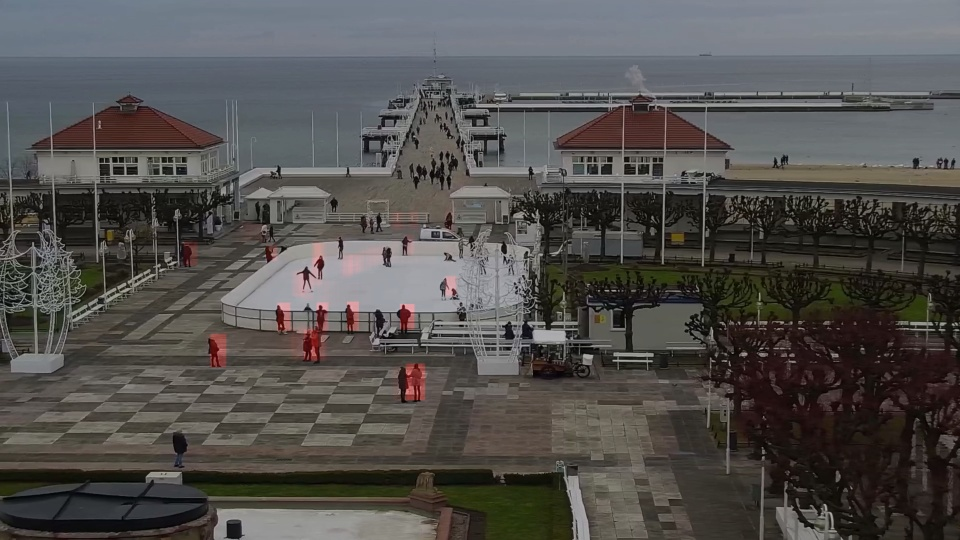
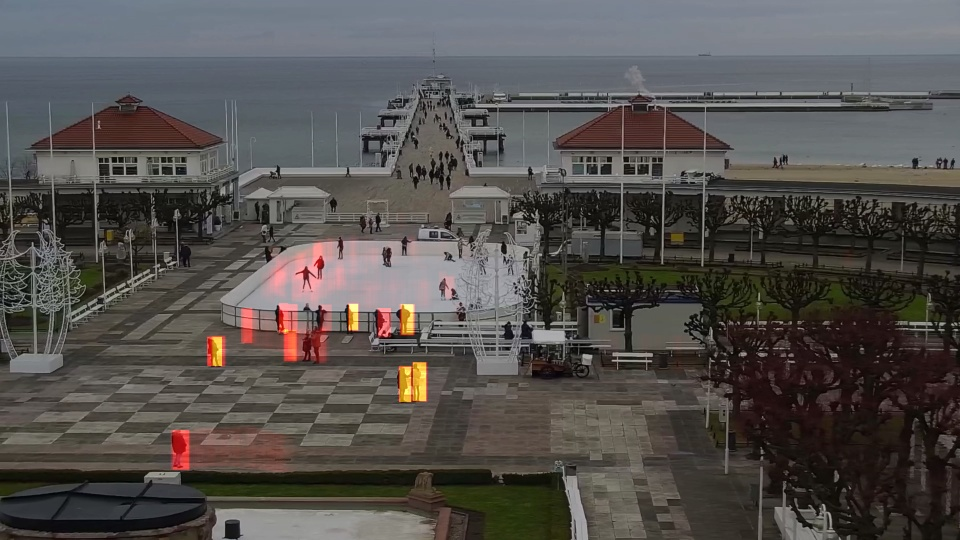
add yolov9 for human detection

diff --git a/util/yolov9_utils.py b/util/yolov9_utils.py
@@ -1,46 +1,46 @@
-import torch
+import yolov9
 import cv2
 import numpy as np
-import yolov9
-from yolov9.models.common import DetectMultiBackend
-from yolov9.utils.general import non_max_suppression, scale_boxes
-from yolov9.utils.torch_utils import select_device, smart_inference_mode
-from yolov9.utils.augmentations import letterbox
-import PIL.Image
 
-@smart_inference_mode()
-def detect_humans_yolov9(image_path, weights, imgsz=640, conf_thres=0.1, iou_thres=0.45, device='0', data='data/coco.yaml'):
-    # Initialize
-    device = select_device(device)
-    model = DetectMultiBackend(weights, device=device, fp16=False, data=data)
-    stride, names, pt = model.stride, model.names, model.pt
+def initialize_yolov9(weights_path, iou_conf, iou_thresh, class_id):
+    # Check if GPU is available
+    if cv2.cuda.getCudaEnabledDeviceCount() > 0:
+        model = yolov9.load(weights_path, device="cuda")
 
-    # Load image
-    image = PIL.Image.open(image_path)
-    img0 = np.array(image)
-    assert img0 is not None, f'Image Not Found {image_path}'
-    img = letterbox(img0, imgsz, stride=stride, auto=True)[0]
-    img = img[:, :, ::-1].transpose(2, 0, 1)
-    img = np.ascontiguousarray(img)
-    img = torch.from_numpy(img).to(device).float()
-    img /= 255.0
-    if img.ndimension() == 3:
-        img = img.unsqueeze(0)
+        # Set model parameters
+        model.conf = iou_conf  # NMS confidence threshold
+        model.iou = iou_thresh  # NMS IoU threshold
+        model.classes = [class_id]  # Class id for person
 
-    # Inference
-    pred = model(img, augment=False, visualize=False)
+        return model
 
-    # Apply NMS
-    pred = non_max_suppression(pred[0][0], conf_thres, iou_thres, classes=None, max_det=1000)
+    else:
+        print("GPU is not available. Using CPU for YOLOv9 inference.")
+        model = yolov9.load(weights_path, device="cpu")
 
-    # Process detections
-    detected_boxes = []
-    for i, det in enumerate(pred):
-        if len(det):
-            det[:, :4] = scale_boxes(img.shape[2:], det[:, :4], img0.shape).round()
-            for *xyxy, conf, cls in reversed(det):
-                detected_boxes.append(xyxy)
+        # Set model parameters
+        model.conf = iou_conf  # NMS confidence threshold
+        model.iou = iou_thresh  # NMS IoU threshold
+        model.classes = [class_id]  # Class id for person
 
-    return detected_boxes
+        return model
 
-# You can add additional functions or modify as needed in yolov9_utils.py
+def detect_humans_yolov9(frame, model, confidence_threshold=0.5, display_boxes=False):
+    # perform inference on frame
+    results = model(frame)
+
+    # parse results
+    predictions = results.pred[0]
+    boxes = predictions[:, :4]  # x1, y1, x2, y2s
+    confidence = predictions[:, 4]  # confidence scores
+
+    # filter predictions based on confidence threshold
+    filtered_boxes = [np.array(box[:4], dtype=int) for box, conf in zip(boxes, confidence) if conf > confidence_threshold]
+
+    if display_boxes:
+        # draw bounding boxes on frame
+        for box in filtered_boxes:
+            x1, y1, x2, y2 = np.array(box[:4], dtype=int)
+            cv2.rectangle(frame, (x1, y1), (x2, y2), (255, 255, 255), 1, cv2.LINE_AA)
+
+    return filtered_boxes

diff --git a/util/main_utils.py b/util/main_utils.py
@@ -3,6 +3,7 @@ import cv2
 import numpy as np
 import time
 from util.yolo_utils import detect_humans
+from util.yolov9_utils import detect_humans_yolov9
 from util.image_utils import resize_frame, apply_background_subtraction, process_accumulated_heatmap, display_fps_text
 
 
@@ -71,7 +72,73 @@ def process_frames(cap, fgbg, yolo_net, yolo_classes, yolo_layer_names, display_
     progress_bar.close()
     return first_frame, accum_image
 
+def process_frames_yolov9(cap, fgbg, yolo_model, display_fps=False, resize_factor=0.5, skip_frames=2, yolo_skip_frames=3):
+    first_iteration_indicator = True
+    first_frame = None
+    accum_image = None
+    frame_count = 0
+    yolo_frame_count = 0
+
+    total_frames = int(cap.get(cv2.CAP_PROP_FRAME_COUNT))
+    progress_bar = tqdm(total=total_frames, desc='Processing Frames', unit='frames')
+
+    start_time = time.time()
+
+    while True:
+        ret, frame = cap.read()
+        progress_bar.update(1)
+
+        if not ret:
+            print("End of video.")
+            break
+
+        frame_count += 1
+        yolo_frame_count += 1
+
+        # Optimization 3: Skip Frames
+        if frame_count % skip_frames != 0:
+            continue
+
+        frame = resize_frame(frame, resize_factor)
+
+        if first_iteration_indicator:
+            first_frame = frame.copy()
+            gray = cv2.cvtColor(frame, cv2.COLOR_BGR2GRAY)
+            height, width = gray.shape[:2]
+            accum_image = np.zeros((height, width), dtype=np.uint8)
+            first_iteration_indicator = False
+        else:
+            # Optimization 4: Optimized YOLOv9 Detection
+            if yolo_frame_count % yolo_skip_frames == 0:
+                human_boxes = detect_humans_yolov9(frame, yolo_model, confidence_threshold=0.25, display_boxes=True)
+                yolo_frame_count = 0
+            else:
+                human_boxes = []  # Use the previous boxes
+
+            for box in human_boxes:
+                x, y, w, h = box
+                roi_frame = frame[y:h, x:w]
+
+                # Background subtraction and motion accumulation within the bounding box
+                thresholded = apply_background_subtraction(fgbg, roi_frame)
+                accum_image[y:h, x:w] = cv2.add(accum_image[y:h, x:w], thresholded)
+
+            # Display live heatmap
+            live_heatmap = process_accumulated_heatmap(frame, accum_image)
+
+            if display_fps:
+                live_heatmap = display_fps_text(live_heatmap, frame_count, start_time)
+
+            cv2.imshow('Live Heatmap', live_heatmap)
+
+        if cv2.waitKey(1) & 0xFF == ord('q'):
+            break
+
+    progress_bar.close()
+    return first_frame, accum_image
+
 def generate_overlay(first_frame, accum_image):
     color_image = cv2.applyColorMap(accum_image, cv2.COLORMAP_HOT)
     result_overlay = cv2.addWeighted(first_frame, 0.7, color_image, 0.7, 0)
     return result_overlay
+

diff --git a/main.py b/main.py
@@ -1,47 +1,33 @@
-import yolov9
+import os
 import cv2
-import numpy as np
+from util import image_utils, main_utils, yolov9_utils
 
-# load pretrained or custom model
-model = yolov9.load(
-    "./yolo-coco/yolov9/gelan-c.pt",
-    device="cpu",
-)
+WEIGHTS_PATH = r"./yolo-coco/yolov9/gelan-c.pt"
+VIDEO_PATH = r"./data/input.mp4"
 
-# set model parameters
-model.conf = 0.25  # NMS confidence threshold
-model.iou = 0.45  # NMS IoU threshold
-model.classes = 0  # 0: class id for person
+def main():
+    video_path = VIDEO_PATH
+    cap = image_utils.initialize_video_capture(video_path)
+    fgbg = cv2.createBackgroundSubtractorMOG2()
 
-video_path = "./data/inp.mp4"
-cap = cv2.VideoCapture(video_path)
-if not cap.isOpened():
-    print("Error opening video file")
-    exit()
+    # Initialize YOLO V9 for human detection
+    model = yolov9_utils.initialize_yolov9(WEIGHTS_PATH, iou_conf=0.25, iou_thresh=0.45, class_id=0)
 
-while cap.isOpened():
-    
-    ret, frame = cap.read()
-    if not ret:
-        break
-    frame = cv2.resize(frame, None, fx=0.5, fy=0.5)
+    first_frame, accum_image = main_utils.process_frames_yolov9(cap, fgbg, yolo_model=model, display_fps=True, skip_frames=1, yolo_skip_frames=5)
+    result_overlay = main_utils.generate_overlay(first_frame, accum_image)
 
-    # perform inference on frame
-    results = model(frame)
+    output_folder = './output'
+    if not os.path.exists(output_folder):
+        os.makedirs(output_folder)
 
-    # parse results
-    predictions = results.pred[0]
-    boxes = predictions[:, :4]  # x1, y1, x2, y2s
+    image_utils.save_image(output_folder, result_overlay, empty_output_dir=True)
 
-    # draw bounding boxes on frame
-    for box in boxes:
-        x1, y1, x2, y2 = np.array(box, dtype=int)
-        cv2.rectangle(frame, (x1, y1), (x2, y2), (0, 165, 255), 1, cv2.LINE_AA)
-          
-    # display frame
-    cv2.imshow("Frame", frame)
-    if cv2.waitKey(1) & 0xFF == ord("q"):
-        break
+    cv2.imshow('Final Heatmap Overlay Output', result_overlay)
+    print(f"Final overlay image saved at: {os.path.join(output_folder, 'heatmap_overlay.jpg')}")
 
-cap.release()
-cv2.destroyAllWindows()
+    cap.release()
+    cv2.waitKey(0)
+    cv2.destroyAllWindows()
+
+if __name__ == '__main__':
+    main()

diff --git a/scripts/yolov9_inference_detect_person.py b/scripts/yolov9_inference_detect_person.py
@@ -1,0 +1,47 @@
+import yolov9
+import cv2
+import numpy as np
+
+# load pretrained or custom model
+model = yolov9.load(
+    "./yolo-coco/yolov9/gelan-c.pt",
+    device="cpu",
+)
+
+# set model parameters
+model.conf = 0.25  # NMS confidence threshold
+model.iou = 0.45  # NMS IoU threshold
+model.classes = None  # 0: class id for person
+
+video_path = "./data/inp.mp4"
+cap = cv2.VideoCapture(video_path)
+if not cap.isOpened():
+    print("Error opening video file")
+    exit()
+
+while cap.isOpened():
+    
+    ret, frame = cap.read()
+    if not ret:
+        break
+    frame = cv2.resize(frame, None, fx=0.5, fy=0.5)
+
+    # perform inference on frame
+    results = model(frame)
+
+    # parse results
+    predictions = results.pred[0]
+    boxes = predictions[:, :4]  # x1, y1, x2, y2s
+
+    # draw bounding boxes on frame
+    for box in boxes:
+        x1, y1, x2, y2 = np.array(box, dtype=int)
+        cv2.rectangle(frame, (x1, y1), (x2, y2), (0, 165, 255), 1, cv2.LINE_AA)
+          
+    # display frame
+    cv2.imshow("Frame", frame)
+    if cv2.waitKey(1) & 0xFF == ord("q"):
+        break
+
+cap.release()
+cv2.destroyAllWindows()
